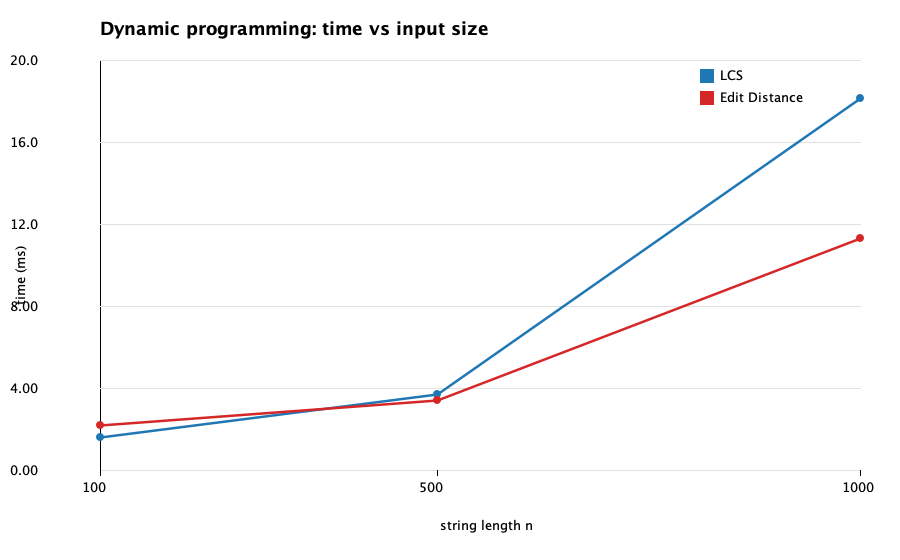
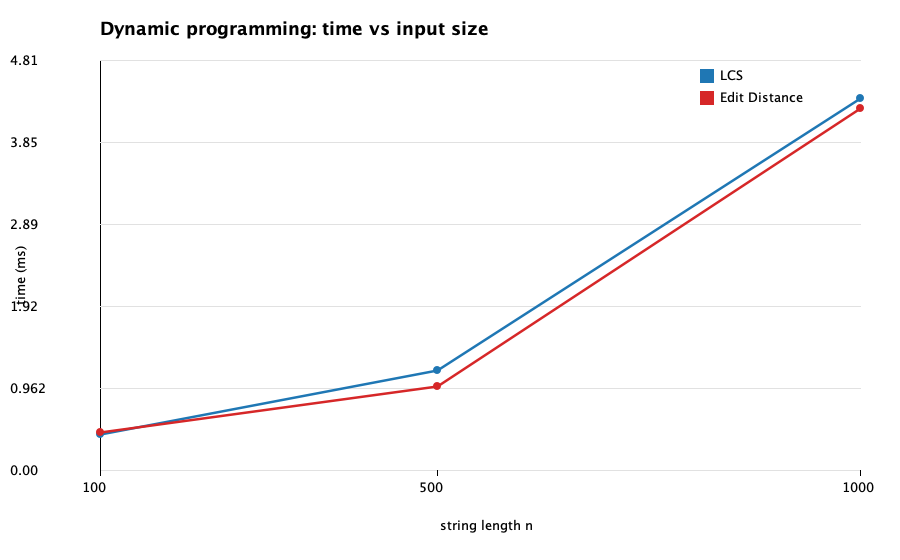
Add experimental results and performance analysis and performance comparison charts

diff --git a/results/results.md b/results/results.md
@@ -2,9 +2,9 @@
 
 | n | LCS avg ms | Edit avg ms | LCS length | Edit distance | table cells |
 |---|---|---|---|---|---|
-| 100 | 1.6209 | 2.2257 | 67 | 56 | 10201 |
-| 500 | 3.7519 | 3.4257 | 326 | 263 | 251001 |
-| 1000 | 18.1840 | 11.3227 | 648 | 537 | 1002001 |
+| 100 | 0.4308 | 0.4567 | 67 | 56 | 10201 |
+| 500 | 1.1842 | 0.9870 | 326 | 263 | 251001 |
+| 1000 | 4.3717 | 4.2536 | 648 | 537 | 1002001 |
 
 ![dp](dp_time.png)
 
@@ -12,15 +12,15 @@
 
 | text length | algorithm | avg ms | char comparisons | occurrences |
 |---|---|---|---|---|
-| 10000 | Naive | 0.8795 | 13416 | 1 |
-| 10000 | KMP | 0.8930 | 12529 | 1 |
-| 10000 | Rabin-Karp | 0.9799 | 20 | 1 |
-| 50000 | Naive | 1.5057 | 66677 | 1 |
-| 50000 | KMP | 1.5628 | 61831 | 1 |
-| 50000 | Rabin-Karp | 1.1836 | 20 | 1 |
-| 100000 | Naive | 0.6680 | 132915 | 1 |
-| 100000 | KMP | 0.9158 | 124696 | 1 |
-| 100000 | Rabin-Karp | 1.8983 | 20 | 1 |
+| 10000 | Naive | 0.3391 | 13416 | 1 |
+| 10000 | KMP | 0.3267 | 12529 | 1 |
+| 10000 | Rabin-Karp | 0.2358 | 20 | 1 |
+| 50000 | Naive | 0.2909 | 66677 | 1 |
+| 50000 | KMP | 0.4068 | 61831 | 1 |
+| 50000 | Rabin-Karp | 0.9005 | 20 | 1 |
+| 100000 | Naive | 0.6779 | 132915 | 1 |
+| 100000 | KMP | 0.8988 | 124696 | 1 |
+| 100000 | Rabin-Karp | 1.7869 | 20 | 1 |
 
 ![present](matching_present.png)
 
@@ -28,15 +28,15 @@
 
 | text length | algorithm | avg ms | char comparisons | occurrences |
 |---|---|---|---|---|
-| 10000 | Naive | 0.0629 | 13426 | 0 |
-| 10000 | KMP | 0.0890 | 12565 | 0 |
-| 10000 | Rabin-Karp | 0.1774 | 0 | 0 |
-| 50000 | Naive | 0.3400 | 66477 | 0 |
-| 50000 | KMP | 0.4445 | 62431 | 0 |
-| 50000 | Rabin-Karp | 0.8870 | 0 | 0 |
-| 100000 | Naive | 0.6663 | 132721 | 0 |
-| 100000 | KMP | 0.8770 | 124697 | 0 |
-| 100000 | Rabin-Karp | 1.7816 | 0 | 0 |
+| 10000 | Naive | 0.0554 | 13426 | 0 |
+| 10000 | KMP | 0.0870 | 12565 | 0 |
+| 10000 | Rabin-Karp | 0.1765 | 0 | 0 |
+| 50000 | Naive | 0.3346 | 66477 | 0 |
+| 50000 | KMP | 0.4376 | 62431 | 0 |
+| 50000 | Rabin-Karp | 0.8930 | 0 | 0 |
+| 100000 | Naive | 0.6731 | 132721 | 0 |
+| 100000 | KMP | 0.8797 | 124697 | 0 |
+| 100000 | Rabin-Karp | 1.7810 | 0 | 0 |
 
 ![absent](matching_absent.png)
 
@@ -44,15 +44,15 @@
 
 | text length | algorithm | avg ms | char comparisons | occurrences |
 |---|---|---|---|---|
-| 10000 | Naive | 0.3745 | 199620 | 0 |
-| 10000 | KMP | 0.0831 | 20018 | 0 |
-| 10000 | Rabin-Karp | 0.1769 | 0 | 0 |
-| 50000 | Naive | 1.8764 | 999620 | 0 |
-| 50000 | KMP | 0.4133 | 100018 | 0 |
-| 50000 | Rabin-Karp | 0.8864 | 0 | 0 |
-| 100000 | Naive | 3.7631 | 1999620 | 0 |
-| 100000 | KMP | 0.9183 | 200018 | 0 |
-| 100000 | Rabin-Karp | 1.7744 | 0 | 0 |
+| 10000 | Naive | 0.3757 | 199620 | 0 |
+| 10000 | KMP | 0.0834 | 20018 | 0 |
+| 10000 | Rabin-Karp | 0.1766 | 0 | 0 |
+| 50000 | Naive | 1.8746 | 999620 | 0 |
+| 50000 | KMP | 0.4139 | 100018 | 0 |
+| 50000 | Rabin-Karp | 0.8931 | 0 | 0 |
+| 100000 | Naive | 3.7938 | 1999620 | 0 |
+| 100000 | KMP | 0.8322 | 200018 | 0 |
+| 100000 | Rabin-Karp | 1.7802 | 0 | 0 |
 
 ![worst](matching_worst.png)
 
@@ -60,8 +60,8 @@
 
 | n | suffix array avg ms | Kasai avg ms |
 |---|---|---|
-| 1000 | 1.8179 | 0.1779 |
-| 5000 | 1.6006 | 0.6599 |
-| 10000 | 1.3202 | 0.5889 |
+| 1000 | 0.1475 | 0.1800 |
+| 5000 | 0.7842 | 0.3029 |
+| 10000 | 1.1278 | 0.2059 |
 
 ![kasai](kasai_time.png)
